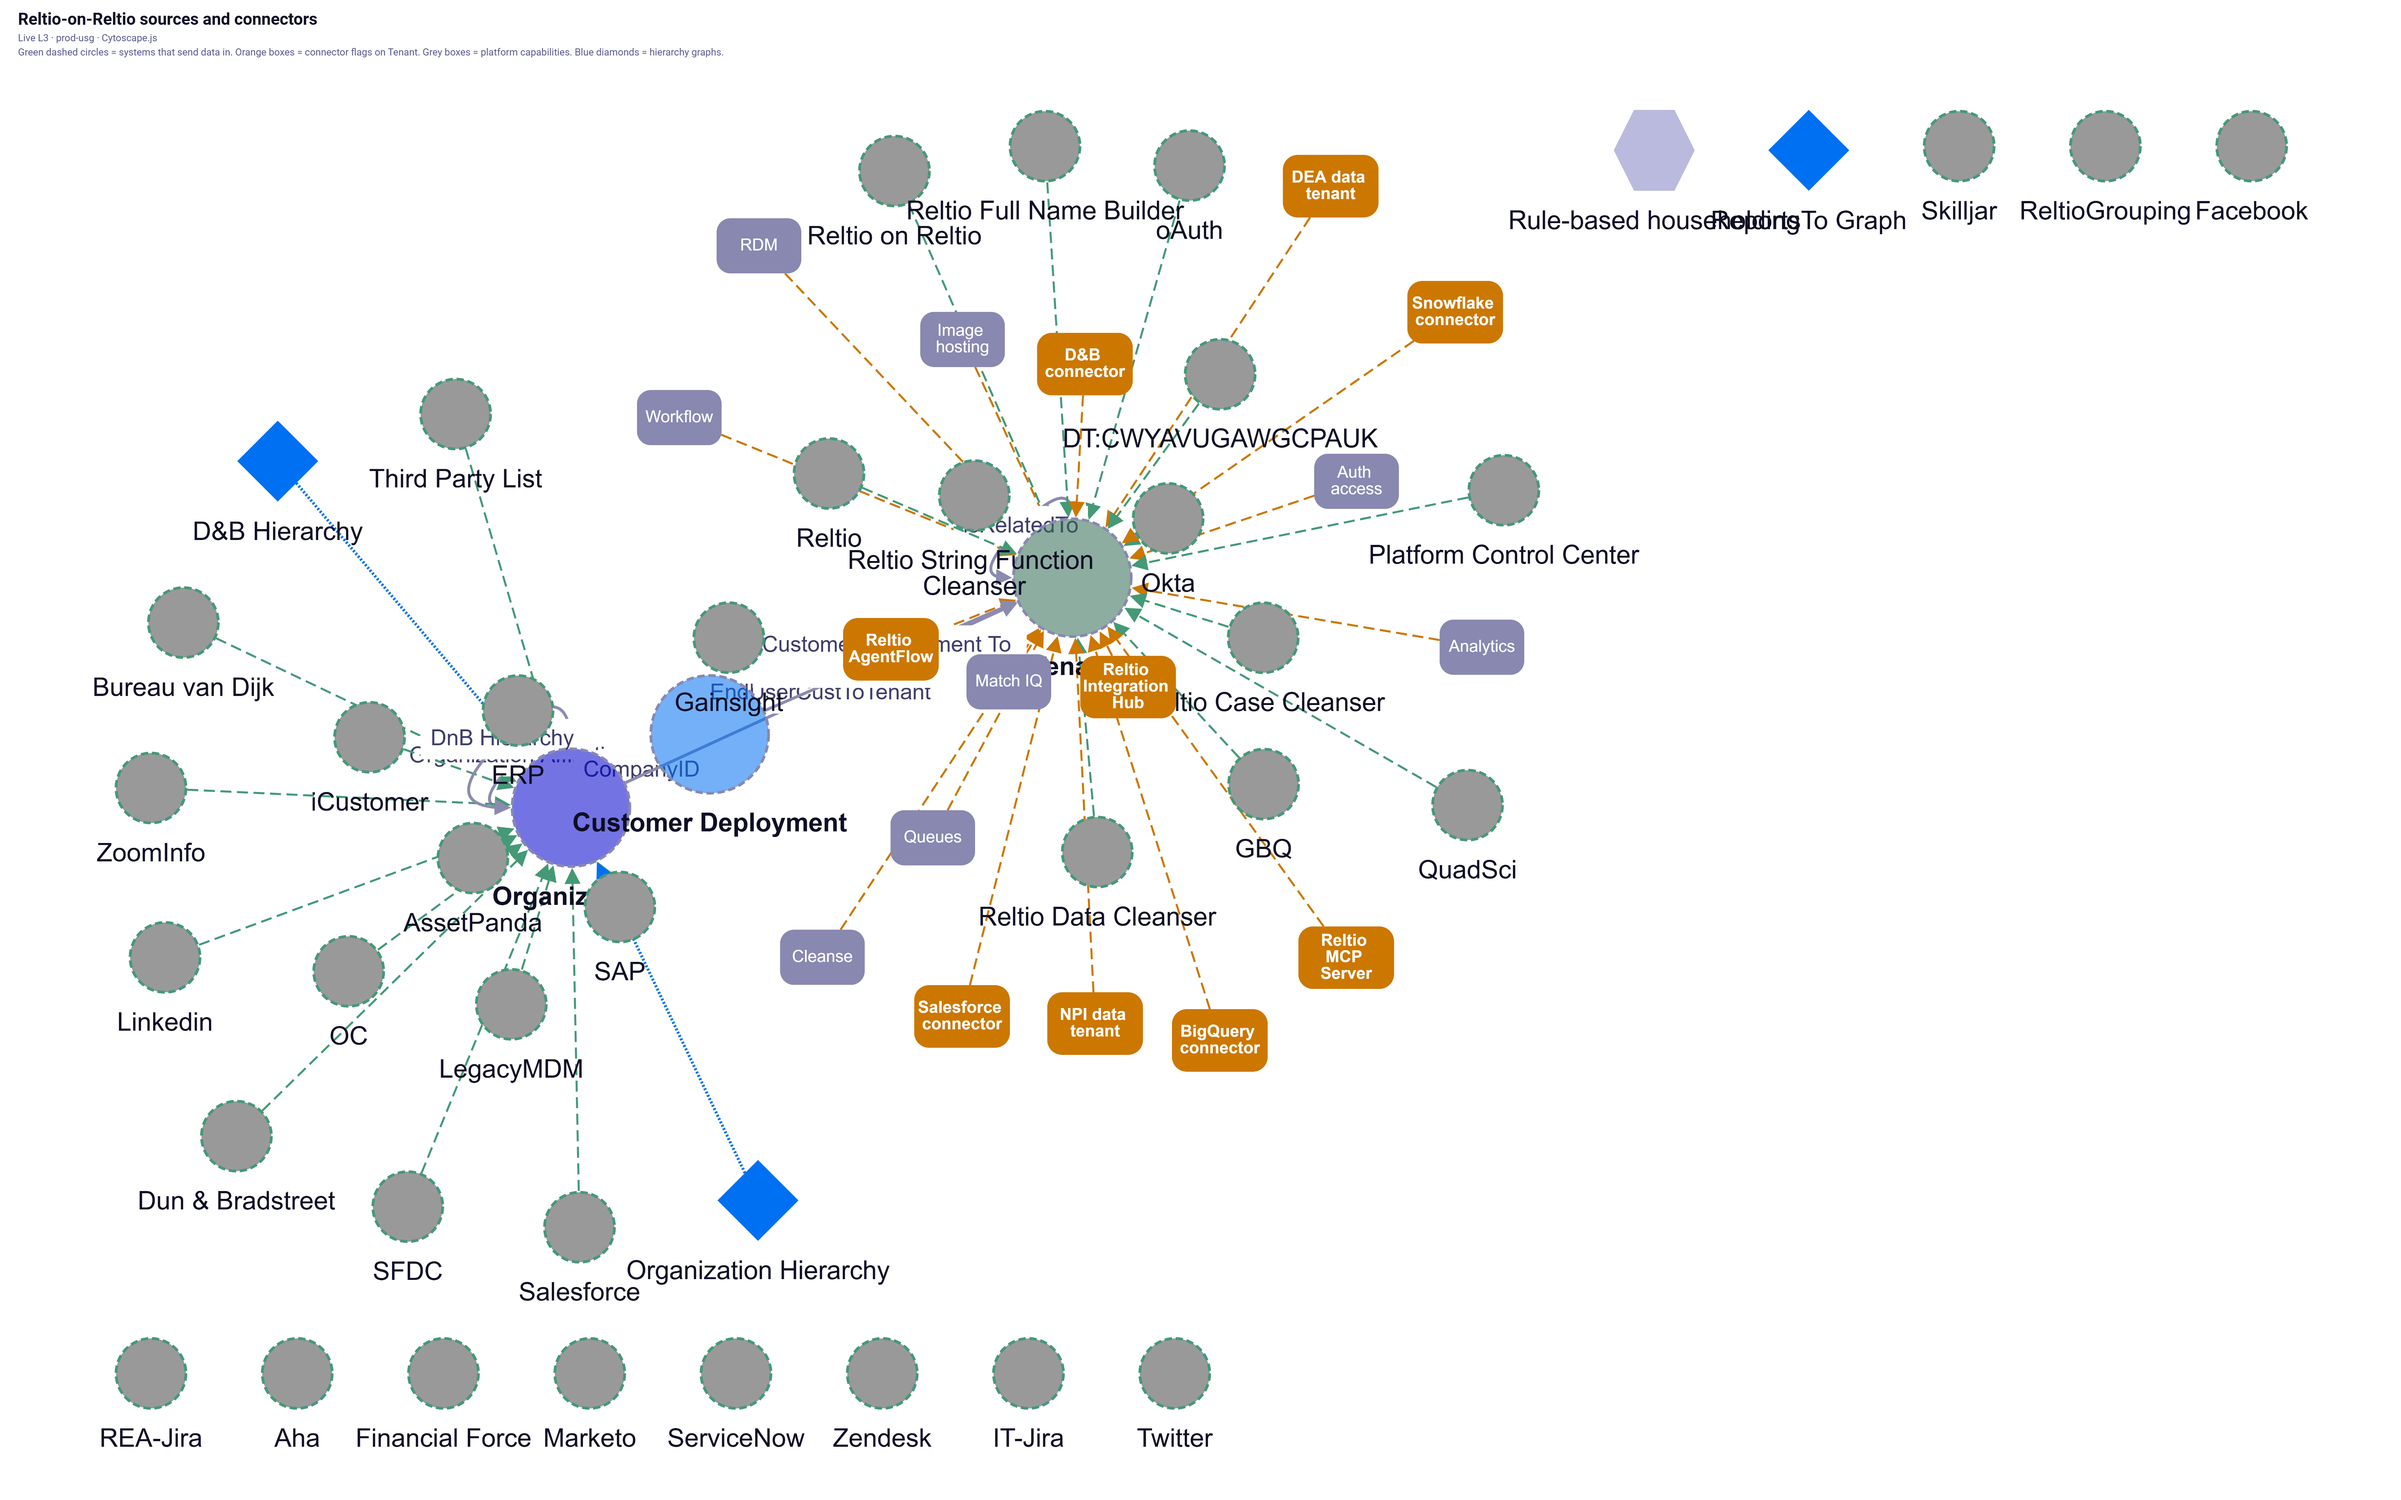
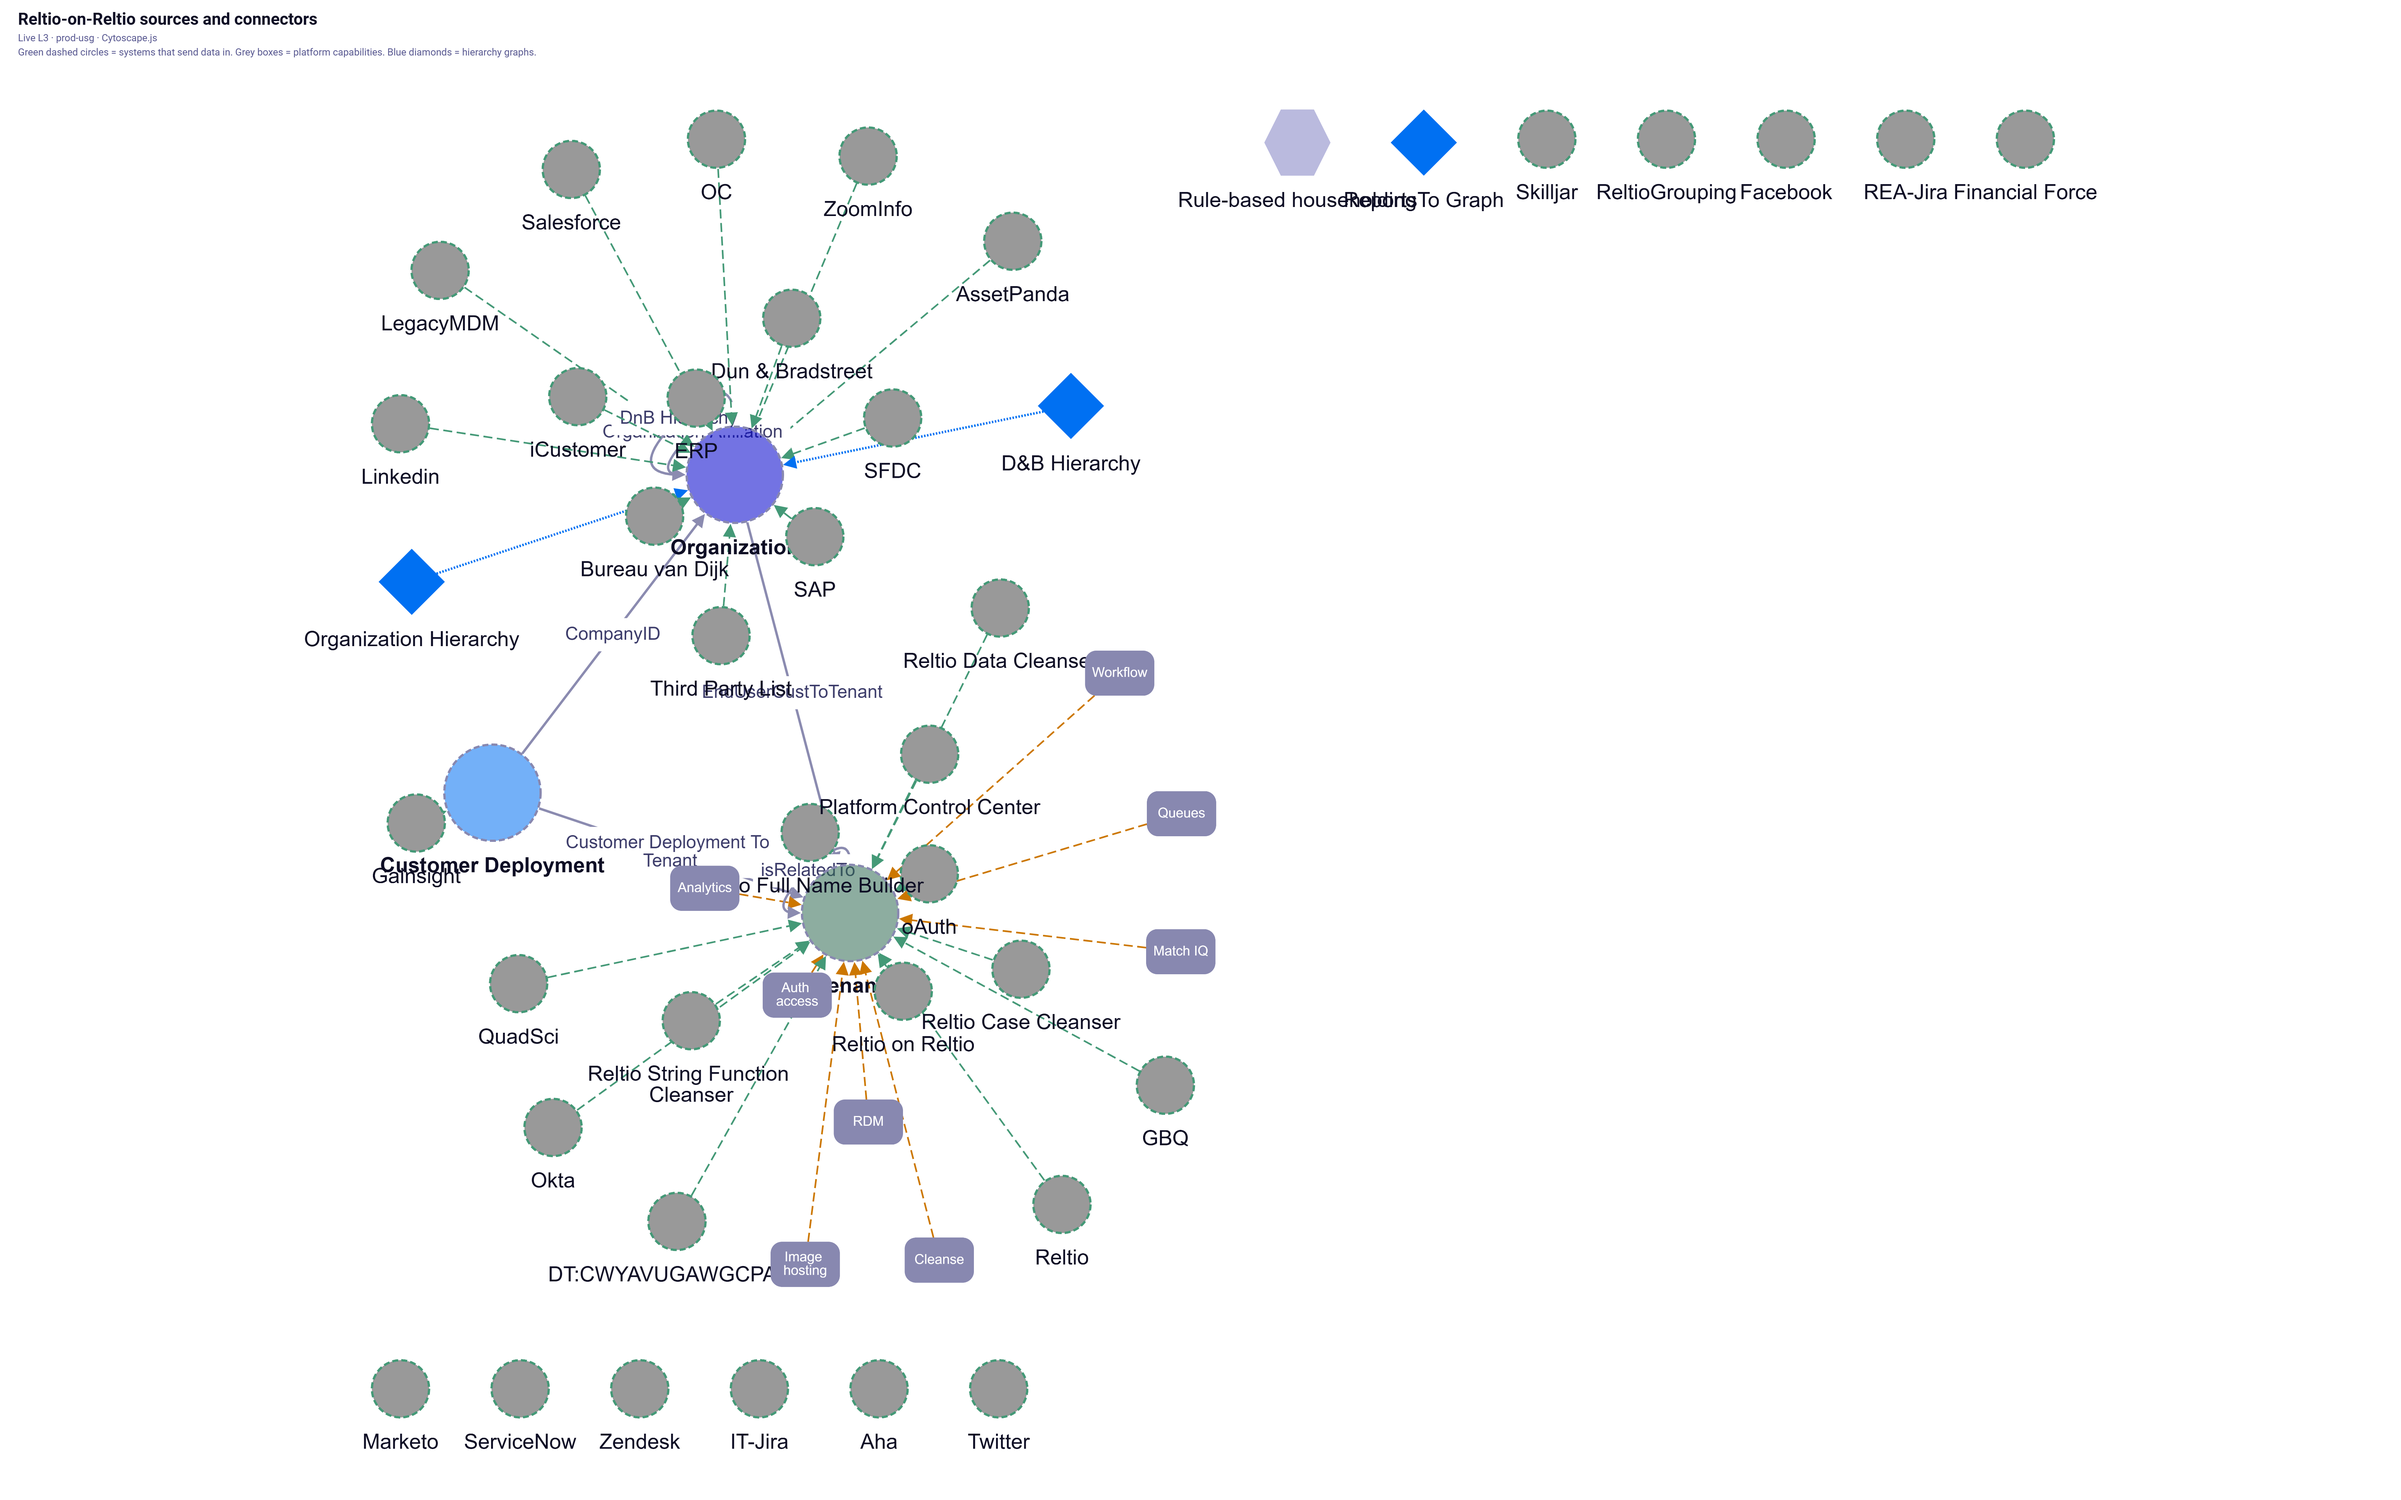
Remove orange connector boxes from Figure 3 Cytoscape.

diff --git a/ror-architecture-guide.html b/ror-architecture-guide.html
@@ -134,19 +134,18 @@ Organization -- OrgToContract --&gt; Contract -- Contract To Tenant --&gt; Tenan
   <h2>4. Figure 3 — sources and connectors</h2>
   <p>This picture is the integration layer around Organization, Customer Deployment, and Tenant. It answers “what feeds RoR, and what can that Tenant do?”</p>
   <figure>
-    <img src="ror-figure-integration.png" alt="Cytoscape diagram of Reltio-on-Reltio sources, connector flags, and platform capabilities" />
+    <img src="ror-figure-integration.png" alt="Cytoscape diagram of Reltio-on-Reltio sources and platform capabilities" />
     <figcaption>Figure 3. Cytoscape integration layer from live L3.</figcaption>
   </figure>
   <div class="read">
     <h3>How to read Figure 3</h3>
     <ul>
       <li><strong>Green dashed circles</strong> — configured sources (Salesforce, Zendesk, Gainsight, Marketo, D&amp;B, Okta, Skilljar, BigQuery, and others). These are systems that send data <em>into</em> RoR.</li>
-      <li><strong>Orange boxes</strong> — connector flags on Tenant. These are switches for what that product instance can do (Salesforce connector, BigQuery, Snowflake, Reltio Integration Hub, Reltio MCP Server, Reltio AgentFlow, DEA/NPI data tenants).</li>
       <li><strong>Grey boxes</strong> — platform capabilities (RDM, Match IQ, Cleanse, Workflow, Queues, Analytics, image hosting, auth). Match and cleanse collapse duplicates into one best-version profile.</li>
       <li><strong>Blue diamonds</strong> — logical graphs (D&amp;B Hierarchy, Organization Hierarchy, ReportsTo Graph).</li>
       <li><strong>Hexagon</strong> — rule-based householding (Contact grouped into Household).</li>
     </ul>
-    <p>A source is not a connector. Salesforce-the-source feeds Organization/Contact. The Salesforce connector flag on Tenant means that customer’s instance can use the Salesforce connector.</p>
+    <p>Connector flags (Salesforce, BigQuery, Reltio Integration Hub, and the rest) sit on Tenant. They are listed in the table below — they are not drawn as orange boxes on this picture.</p>
   </div>
   <table>
     <thead>

diff --git a/ror-figure-integration.html b/ror-figure-integration.html
@@ -18,8 +18,8 @@
 <body>
   <div id="banner">
     <h1>Reltio-on-Reltio sources and connectors</h1>
-    <p>Live L3 · prod-usg · Cytoscape.js · Drag circles to move · Scroll to zoom</p>
-    <p id="legend">Green dashed circles = systems that send data in. Orange boxes = connector flags on Tenant. Grey boxes = platform capabilities. Blue diamonds = hierarchy graphs.</p>
+    <p>Live L3 · prod-usg · Cytoscape.js</p>
+    <p id="legend">Green dashed circles = systems that send data in. Grey boxes = platform capabilities. Blue diamonds = hierarchy graphs.</p>
   </div>
   <div id="cy"></div>
   <script>
@@ -40,8 +40,8 @@
       if (SCOPE === "core") return kind !== "entity" || !CORE.has(typeId);
       if (SCOPE === "integration") {
         if (kind === "entity") return !INTEGRATION.has(typeId);
-        if (kind === "interaction") return true;
-        return !(kind === "source" || kind === "connector" || kind === "capability" || kind === "graph" || kind === "grouping");
+        if (kind === "interaction" || kind === "connector") return true;
+        return !(kind === "source" || kind === "capability" || kind === "graph" || kind === "grouping");
       }
       return false;
     }
@@ -172,7 +172,7 @@
     });
     cy.nodes().filter((n) => hideByScope(n.data("kind"), n.data("typeId"), n.data("abstract"))).remove();
     const common = { animate:false, fit:true, padding: SCOPE === "core" ? 80 : 56 };
-    const done = function() {};
+    const done = function() { document.title = "READY"; };
     if (LAYOUT === "cose") cy.layout({ name:"cose", ...common, nodeRepulsion: 28000, idealEdgeLength: 140, gravity:0.18, numIter:2200, stop: done }).run();
     else cy.layout({ name:"dagre", ...common, rankDir:"LR", nodeSep: SCOPE === "core" ? 180 : 96, rankSep: SCOPE === "core" ? 380 : 200, edgeSep: SCOPE === "core" ? 80 : 40, stop: done }).run();
     }

diff --git a/index.html b/index.html
@@ -23,7 +23,7 @@
     <li><a href="ror-architecture.html">Whole architecture</a> — all entities, sources, connectors, filters, and layouts</li>
     <li><a href="ror-figure-all.html">Figure 1 — entity types</a> — same graph as ror-figure-all.png</li>
     <li><a href="ror-figure-core.html">Figure 2 — commercial core</a> — same graph as ror-figure-core.png</li>
-    <li><a href="ror-figure-integration.html">Figure 3 — sources and connectors</a> — same graph as ror-figure-integration.png</li>
+    <li><a href="ror-figure-integration.html">Figure 3 — sources</a> — same graph as ror-figure-integration.png (no orange connector boxes)</li>
   </ul>
 
   <h2>Guide (static pictures)</h2>
